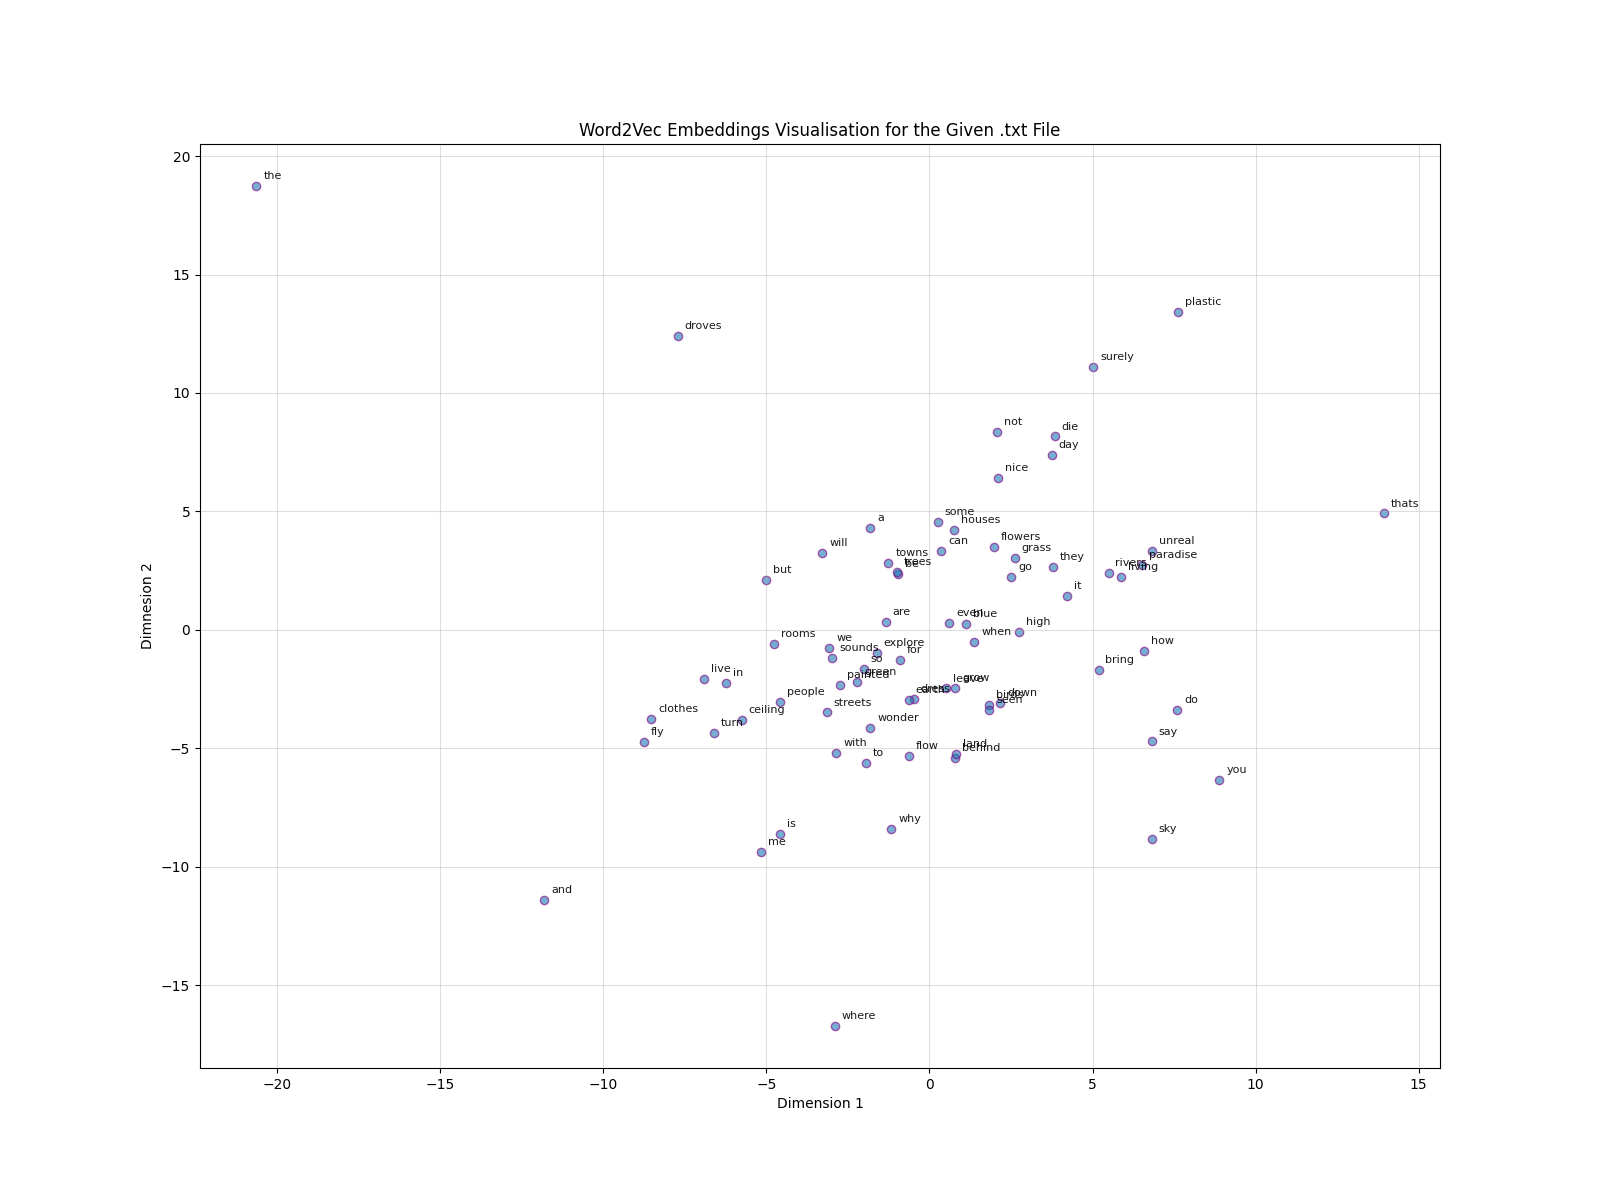
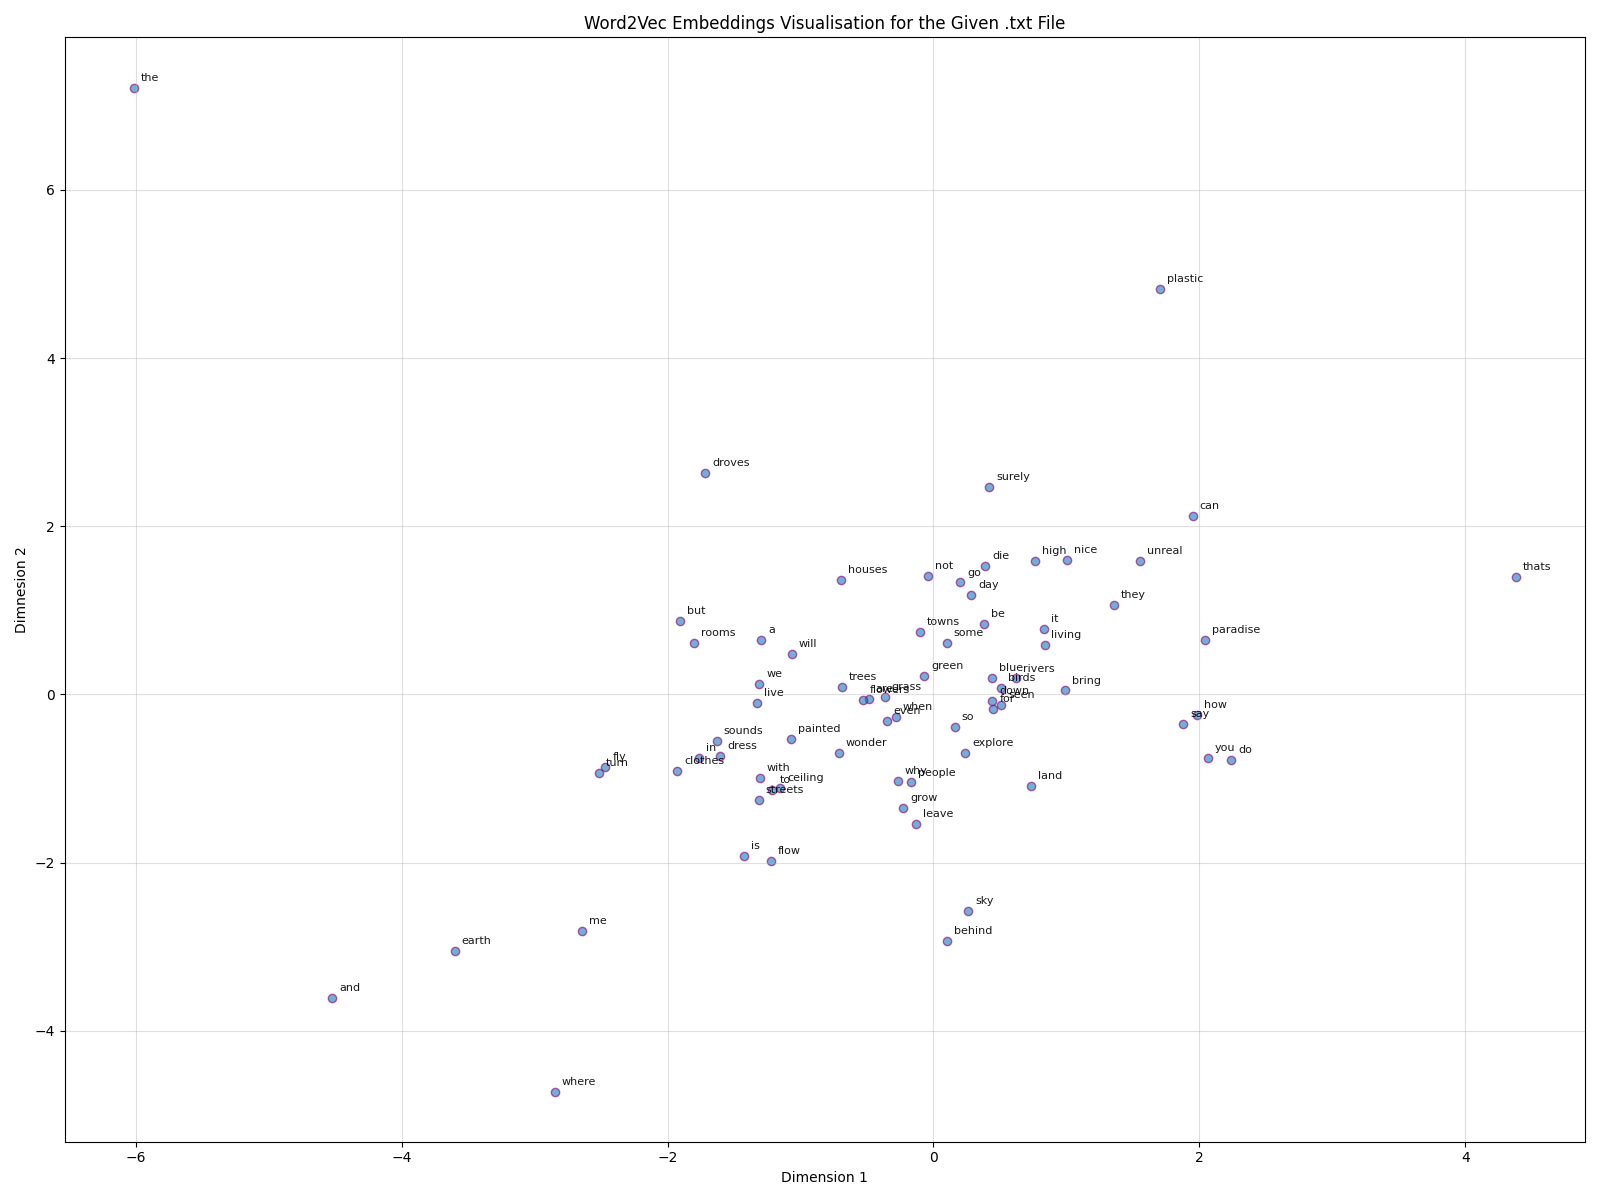
add loss curve function, move plot functions to utils

diff --git a/src/example.py b/src/example.py
@@ -1,62 +1,39 @@
-import matplotlib.pyplot as plt
 from pathlib import Path
 
 from src.word2vec_implementation import Word2Vec
+from src.utils import plot_scatterplot, plot_loss_curve
 from src.config.logger_config import setup_logging
 from src.config.constants import (
     PLOTS_DIR,
-    NUMBER_OF_EPOCHS,
-    BATCH_SIZE,
-    SAVE_EVERY,
     CONFIG_DIR,
+    CONTEXT_WINDOW_SIZE,
+    EMBEDDING_DIMENSION,
     LEARNING_RATE,
+    SAVE_EVERY,
+    BATCH_SIZE,
+    NUMBER_OF_EPOCHS,
 )
 
 log = setup_logging(__name__)
-
-
-def plot_scatterplot(embeddings, save_file):
-    plt.figure(figsize=(16, 12))
-    words = list(embeddings.keys())
-    x_coords = [embeddings[word][0] for word in words]
-    y_coords = [embeddings[word][1] for word in words]
-
-    plt.scatter(x_coords, y_coords, edgecolors="purple", alpha=0.6)
-
-    for idx, word in enumerate(words):
-        plt.annotate(
-            word,
-            (x_coords[idx], y_coords[idx]),
-            xytext=(5, 5),
-            textcoords="offset points",
-            fontsize=8,
-            alpha=0.9,
-        )
-
-    plt.title("Word2Vec Embeddings Visualisation for the Given .txt File")
-    plt.xlabel("Dimension 1")
-    plt.ylabel("Dimnesion 2")
-    plt.grid(True, alpha=0.4)
-
-    plt.savefig(save_file)
-    plt.tight_layout()
-    plt.show()
 
 
 if __name__ == "__main__":
     text = Path(CONFIG_DIR / "text_example.txt").read_text()
     w2v = Word2Vec(
         dataset=text,
-        embedding_dimension=2,
+        context_window_size=CONTEXT_WINDOW_SIZE,
+        embedding_dimension=EMBEDDING_DIMENSION,
         logger=log,
         learning_rate=LEARNING_RATE,
         save_every=SAVE_EVERY,
         batch_size=BATCH_SIZE,
     )
 
-    w2v.train(epochs=NUMBER_OF_EPOCHS)
-
+    losses = w2v.train(epochs=NUMBER_OF_EPOCHS)
     embeddings = w2v.get_word_embeddings()
 
-    save_file = PLOTS_DIR / "embeddings_visualisation.png"
-    plot_scatterplot(embeddings=embeddings, save_file=save_file)
+    save_scatterplot_file = PLOTS_DIR / "embeddings_visualisation.png"
+    plot_scatterplot(embeddings=embeddings, save_file=save_scatterplot_file)
+
+    save_losscurve_file = PLOTS_DIR / "losses_curve.png"
+    plot_loss_curve(losses=losses, save_file=save_losscurve_file)

diff --git a/src/utils.py b/src/utils.py
@@ -1,0 +1,57 @@
+import matplotlib.pyplot as plt
+
+
+def plot_scatterplot(embeddings, save_file):
+    plt.figure(figsize=(16, 12))
+    words = list(embeddings.keys())
+    x_coords = [embeddings[word][0] for word in words]
+    y_coords = [embeddings[word][1] for word in words]
+
+    plt.scatter(x_coords, y_coords, edgecolors="purple", alpha=0.6)
+
+    for idx, word in enumerate(words):
+        plt.annotate(
+            word,
+            (x_coords[idx], y_coords[idx]),
+            xytext=(5, 5),
+            textcoords="offset points",
+            fontsize=8,
+            alpha=0.9,
+        )
+
+    plt.title("Word2Vec Embeddings Visualisation for the Given .txt File")
+    plt.xlabel("Dimension 1")
+    plt.ylabel("Dimnesion 2")
+    plt.grid(True, alpha=0.4)
+    plt.tight_layout()
+    plt.savefig(save_file)
+
+
+def plot_loss_curve(losses, save_file):
+    plt.figure(figsize=(12, 8))
+
+    number_of_points = 25
+    total_epochs = len(losses)
+    step = max(1, total_epochs // number_of_points)
+    indices = list(range(1, total_epochs, step))
+
+    sampled_epochs = [i + total_epochs - indices[-1] - 1 for i in indices]
+    sampled_losses = [losses[i] for i in sampled_epochs]
+
+    plt.plot(
+        sampled_epochs,
+        sampled_losses,
+        "r--",
+        linewidth=2,
+        marker="o",
+        markersize=7,
+        alpha=0.8,
+    )
+    plt.ylim(0, max(losses) * 1.05)
+
+    plt.xlabel("Epochs")
+    plt.ylabel("Cross-Entropy Loss")
+    plt.title("Training Loss over Epochs")
+    plt.grid(True, alpha=0.4)
+    plt.tight_layout()
+    plt.savefig(save_file)

diff --git a/src/word2vec_implementation.py b/src/word2vec_implementation.py
@@ -161,7 +161,7 @@ class Word2Vec:
         n_examples = len(self.inputs)
         losses = []
 
-        for epoch_idx in range(epochs):
+        for epoch_idx in range(epochs + 1):
             total_loss = 0
             indices = np.random.permutation(n_examples)
 
@@ -172,7 +172,7 @@ class Word2Vec:
                 loss = self.train_step(input_batch, output_batch)
                 total_loss += loss * len(batch_idx)
 
-            if self.logger and epoch_idx % self.save_every == 0:
+            if self.logger and epoch_idx > 0 and epoch_idx % self.save_every == 0:
                 self.logger.info(
                     f"Total Cross-Entropy Loss after epoch {epoch_idx} equals to {total_loss}."
                 )

diff --git a/src/config/constants.py b/src/config/constants.py
@@ -5,7 +5,9 @@ LOGS_DIR = ROOT_DIR / "figures" / "logs"
 PLOTS_DIR = ROOT_DIR / "figures" / "plots"
 CONFIG_DIR = ROOT_DIR / "src" / "config"
 
-NUMBER_OF_EPOCHS = 200_000
-BATCH_SIZE = 16
-SAVE_EVERY = 1_000
+CONTEXT_WINDOW_SIZE = 2
+EMBEDDING_DIMENSION = 2
 LEARNING_RATE = 0.005
+SAVE_EVERY = 1_000
+BATCH_SIZE = 16
+NUMBER_OF_EPOCHS = 20_000
